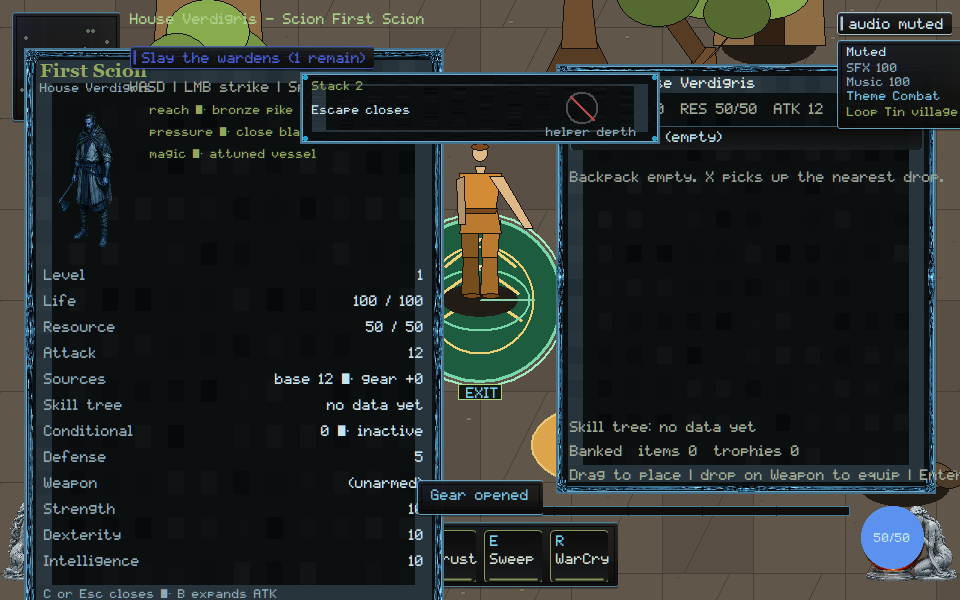
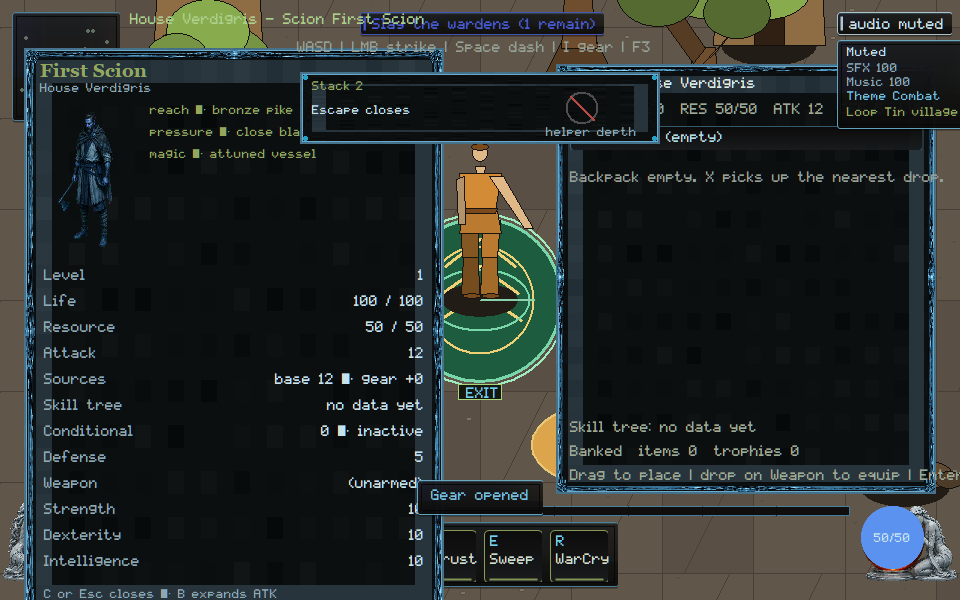
native: keep WASD off the open skill tree so overlaying the pane cannot certify HUD readability

Changed region(s): [[0.125, 0.0, 0.6875, 0.15]]

diff --git a/native/client/main.cpp b/native/client/main.cpp
@@ -345,6 +345,27 @@ HudRect gear_pane_rect(int width, int height) {
           std::max(0, bottom - pane_top)};
 }
 
+HudRect tree_pane_rect(int width, int height) {
+  const int s = hud_scale(height);
+  const int pane_w = 460 * s;
+  const int pane_h = 420 * s;
+  const int left = (width - pane_w) / 2;
+  const int top = std::max(48 * s, (height - pane_h) / 2 - 20 * s);
+  return {left, top, pane_w, pane_h};
+}
+
+HudRect character_pane_rect(int width, int height, int extra_rows) {
+  (void)width;
+  const int s = hud_scale(height);
+  const int pane_w = 420 * s;
+  const int row_h = 26 * s;
+  const int pane_h =
+      (56 + 150 + 14) * s + (12 + extra_rows) * row_h + 40 * s;
+  const int left = 24 * s;
+  const int top = std::max(48 * s, (height - pane_h) / 2 - 20 * s);
+  return {left, top, pane_w, pane_h};
+}
+
 HudRect minimap_rect(int height) {
   const int s = hud_scale(height);
   const int size = 108 * s;
@@ -5292,7 +5313,8 @@ void paint_connection_chip(ClientState& state, HDC dc, const RECT& bounds,
 // controls — is placed by one pure integer-geometry pass from actually
 // measured extents. TASK-0159 extends the pass with the fixed screen regions
 // those rows must never fight: the minimap panel always, and the shipped gear
-// pane whenever it is open, plus the bottom quickbar/orbs for completeness.
+// pane whenever it is open, the P-key tree pane, the character sheet, plus
+// the bottom quickbar/orbs for completeness.
 // Candidates walk deterministic fallback ladders (centered/right pins, then a
 // left lane beside the minimap, then the raw gutter), so no region is ever
 // deleted and none lands inside another at any width, including 960x600 and
@@ -5330,7 +5352,8 @@ bool top_hud_clear(const TopHudRect& a, const TopHudRect& b, int gap) {
          a.y + a.h + gap <= b.y || b.y + b.h + gap <= a.y;
 }
 
-TopHudLayout plan_top_hud(int width, int height, bool gear_open,
+TopHudLayout plan_top_hud(int width, int height, bool gear_open, bool tree_open,
+                          bool character_open, int character_extra_rows,
                           const TopHudRect& identity_size,
                           const TopHudRect& objective_size,
                           const TopHudRect& art_size,
@@ -5346,11 +5369,15 @@ TopHudLayout plan_top_hud(int width, int height, bool gear_open,
   // Route card occupies the left column under the minimap. When the gear
   // pane is open at 960, that column is the wrap ladder for controls; hide
   // the card instead of colliding chips into the map.
-  if (!gear_open) keep_out(route_card_rect(height));
+  if (!gear_open && !tree_open && !character_open)
+    keep_out(route_card_rect(height));
   keep_out(quickbar_strip_rect(width, height));
   keep_out(vital_orb_rect(width, height, false));
   keep_out(vital_orb_rect(width, height, true));
   if (gear_open) keep_out(gear_pane_rect(width, height));
+  if (tree_open) keep_out(tree_pane_rect(width, height));
+  if (character_open)
+    keep_out(character_pane_rect(width, height, character_extra_rows));
 
   std::vector<TopHudRect> occupied[kTopHudRowCount];
   const auto row_y = [&](int row) { return kTopHudRow0Y + row * kTopHudRowStep; };
@@ -5545,11 +5572,6 @@ void paint_character_pane(ClientState& state, HDC dc, const RECT& bounds,
                           render::List& rl) {
   if (!state.character_pane) return;
   const int s = hud_scale(static_cast<int>(bounds.bottom));
-  const int pane_w = 420 * s;
-  // Content-derived height: header, portrait, twelve stat rows, footer.
-  // Slice builds sit beside the portrait so they stay on a 600px capture.
-  // A fixed height under a scaled type ramp is exactly how rows clip out.
-  const int row_h = 26 * s;
   const verdigris::client::ui::StatSources preview_src{
       0,
       0,
@@ -5558,11 +5580,15 @@ void paint_character_pane(ClientState& state, HDC dc, const RECT& bounds,
       state.sheet_cond_active,
       state.stat_atk_expanded};
   const int extra_rows = verdigris::client::ui::extra_source_rows(preview_src);
-  const int pane_h = (56 + 150 + 14) * s + (12 + extra_rows) * row_h + 40 * s;
-  const int left = 24 * s;
-  const int top =
-      std::max(48 * s, (static_cast<int>(bounds.bottom) - pane_h) / 2 - 20 * s);
+  const HudRect box = character_pane_rect(static_cast<int>(bounds.right),
+                                         static_cast<int>(bounds.bottom),
+                                         extra_rows);
+  const int left = box.x;
+  const int top = box.y;
+  const int pane_w = box.w;
+  const int pane_h = box.h;
   RECT pane{left, top, left + pane_w, top + pane_h};
+  state.hud_rect_trace.push_back({"character-pane-frame", box});
   if (!draw_framekit_nine(state.billboards, dc, state.billboards.fk_panel, pane))
     skin::panel(dc, pane, skin::kVerdigris, 245, 8.0f);
   dress_owned_pane(state.billboards, dc, pane);
@@ -5683,6 +5709,7 @@ void paint_character_pane(ClientState& state, HDC dc, const RECT& bounds,
                  {"src cond", dormant}});
   }
   int y = top + 56 * s + portrait_h + 14 * s;
+  const int row_h = 26 * s;
   SelectObject(dc, skin::font_body());
   auto owner_stat_name = [](const std::string& label) -> std::string {
     if (label == "src base") return "Base";
@@ -5738,12 +5765,14 @@ void paint_tree_pane(ClientState& state, HDC dc, const RECT& bounds,
   state.tree_seat_hits.clear();
   if (!state.tree_pane) return;
   const int s = hud_scale(static_cast<int>(bounds.bottom));
-  const int pane_w = 460 * s;
-  const int pane_h = 420 * s;
-  const int left = (static_cast<int>(bounds.right) - pane_w) / 2;
-  const int top =
-      std::max(48 * s, (static_cast<int>(bounds.bottom) - pane_h) / 2 - 20 * s);
+  const HudRect box = tree_pane_rect(static_cast<int>(bounds.right),
+                                    static_cast<int>(bounds.bottom));
+  const int left = box.x;
+  const int top = box.y;
+  const int pane_w = box.w;
+  const int pane_h = box.h;
   RECT pane{left, top, left + pane_w, top + pane_h};
+  state.hud_rect_trace.push_back({"tree-pane-frame", box});
   if (!draw_framekit_nine(state.billboards, dc, state.billboards.fk_panel, pane))
     skin::panel(dc, pane, skin::kVerdigris, 245, 8.0f);
   dress_owned_pane(state.billboards, dc, pane);
@@ -9218,6 +9247,10 @@ void paint_scene(ClientState& state, HDC dc, const RECT& bounds) {
         controls_line_b.empty() ? 0 : controls_b_extent.cy + 6};
     const TopHudLayout layout = plan_top_hud(
         width, static_cast<int>(bounds.bottom), state.gear_overlay,
+        state.tree_pane, state.character_pane,
+        verdigris::client::ui::extra_source_rows(
+            {0, 0, state.sheet_passive_atk, state.sheet_cond_atk,
+             state.sheet_cond_active, state.stat_atk_expanded}),
         identity_size, objective_size, art_size, controls_size,
         controls_size_a, controls_size_b, static_cast<bool>(state.session));
 
@@ -12478,6 +12511,53 @@ int scenario_hud_pane_readability() {
     }
   }
 
+  // VG-UI-007 extra: the P-key tree pane is a real HUD keep-out, not just
+  // the gear overlay. A 960 capture cannot certify if WASD sits on the tree.
+  {
+    ClientState state;
+    scenario_begin(state);
+    load_billboards(state.billboards);
+    scenario_follow_camera(state);
+    state.tree_pane = true;
+    const std::string png_tree =
+        dir + "\\hud-pane-readability-tree-960x600.png";
+    scenario_check(reference_present(state, 960, 600, png_tree),
+                   "hud-pane-readability: tree-open capture written");
+    const HudRect* pane = trace_find(state, "tree-pane-frame");
+    scenario_check(pane != nullptr && pane->w > 100,
+                   "hud-pane-readability: tree pane frame recorded");
+    const char* kTreeKeepOut[] = {"identity",        "controls",
+                                  "objective",       "minimap",
+                                  "quickbar-strip",  "orb-life",
+                                  "orb-resource"};
+    for (const char* region : kTreeKeepOut) {
+      const HudRect* rect = trace_find(state, region);
+      char line[192];
+      std::snprintf(line, sizeof(line),
+                    "hud-pane-readability: %s never enters the tree pane",
+                    region);
+      scenario_check(pane && rect && !hud_rects_overlap(*pane, *rect), line);
+    }
+    if (const HudRect* second = trace_find(state, "controls-second")) {
+      scenario_check(pane && !hud_rects_overlap(*pane, *second),
+                     "hud-pane-readability: controls-second never enters the "
+                     "tree pane");
+    }
+    if (const HudRect* art = trace_find(state, "art")) {
+      scenario_check(pane && !hud_rects_overlap(*pane, *art),
+                     "hud-pane-readability: art/mute chip never enters the "
+                     "tree pane");
+    }
+    scenario_check(
+        render_list_has(state, render::Op::Hud, "tree:seats-hidden-absent"),
+        "hud-pane-readability: tree-open still states absence without seats");
+    std::ifstream probe(png_tree, std::ios::binary);
+    scenario_check(probe.good(), "hud-pane-readability: tree capture readable");
+    probe.seekg(0, std::ios::end);
+    scenario_check(probe.tellg() > 1024,
+                   "hud-pane-readability: tree capture non-trivial");
+  }
+
   // ── Remote owner path on this lane's routed loopback capsule (7100-7119):
   // the connection chip and art chip must also clear the open pane.
   {
@@ -14666,6 +14746,36 @@ int scenario_pane_stack() {
                  "pane-stack: painting a seat with no payload is the anti-pattern");
   scenario_check(!verdigris::client::ui::invented_origin_fails_review(false, false),
                  "pane-stack: hidden seats are the production absence");
+  const HudRect* tree_frame = nullptr;
+  const HudRect* controls_rect = nullptr;
+  const HudRect* identity_rect = nullptr;
+  const HudRect* objective_rect = nullptr;
+  const HudRect* controls_second = nullptr;
+  for (const auto& entry : tree.hud_rect_trace) {
+    if (entry.first == "tree-pane-frame") tree_frame = &entry.second;
+    if (entry.first == "controls") controls_rect = &entry.second;
+    if (entry.first == "identity") identity_rect = &entry.second;
+    if (entry.first == "objective") objective_rect = &entry.second;
+    if (entry.first == "controls-second") controls_second = &entry.second;
+  }
+  scenario_check(tree_frame && tree_frame->w > 100,
+                 "pane-stack: tree pane frame is measured");
+  scenario_check(controls_rect &&
+                     !hud_rects_overlap(*tree_frame, *controls_rect),
+                 "pane-stack: controls hint never enters the tree pane");
+  scenario_check(identity_rect &&
+                     !hud_rects_overlap(*tree_frame, *identity_rect),
+                 "pane-stack: identity never enters the tree pane");
+  scenario_check(objective_rect &&
+                     !hud_rects_overlap(*tree_frame, *objective_rect),
+                 "pane-stack: objective never enters the tree pane");
+  if (controls_second)
+    scenario_check(!hud_rects_overlap(*tree_frame, *controls_second),
+                   "pane-stack: wrapped controls never enter the tree pane");
+  scenario_check(verdigris::client::ui::controls_on_tree_fails_review(true),
+                 "pane-stack: overlaying the tree with WASD is the anti-pattern");
+  scenario_check(!verdigris::client::ui::controls_on_tree_fails_review(false),
+                 "pane-stack: relocated controls are the production HUD");
   const std::string tree_png = dir + "\\tree-pane-960x600.png";
   scenario_check(reference_present(tree, 960, 600, tree_png),
                  "pane-stack: skill-tree capture written");

diff --git a/native/client/ui/bind-vital-orb-roles.hpp b/native/client/ui/bind-vital-orb-roles.hpp
@@ -37,5 +37,6 @@ inline bool mute_on_mana_globe_fails(bool muted, bool glyph_at_resource_cx) {
 
 inline const char* owner_life_left_label() { return "Life left"; }
 inline const char* owner_mana_right_label() { return "Mana right"; }
+inline bool controls_on_tree_fails_review(bool overlap) { return overlap; }
 
 }  // namespace verdigris::client::ui

diff --git a/docs/execution/CROSSWALK.md b/docs/execution/CROSSWALK.md
@@ -33,13 +33,13 @@ Cursor evidence notes.
 
 | VG | Disposition | Existing |
 |---|---|---|
-| VG-UI-001 | extend | native Escape stack (`pane-stack`); owner Stack 2 / Escape closes; absent tree hides seats; invented origin cannot pass |
+| VG-UI-001 | extend | native Escape stack (`pane-stack`); owner Stack 2 / Escape closes; absent tree hides seats; invented origin cannot pass; WASD cannot overlay the open tree |
 | VG-UI-002 | extend | TASK-0171 INTEGRATED, 0184 BRIDGE_PREP; `pack-drag`; reject cannot lose/duplicate/silent-equip |
 | VG-UI-003 | extend | paper-doll + ack-only HUD (`equipment`); pending compare cannot gold-frame as equipped; `progression-surface` owner Skill tree / No data yet (TASK folder cannot certify) |
 | VG-UI-004 | extend | TASK-0156, 0159 INTEGRATED; `stat-explain` expandable ATK; dormant cannot fold into Attack |
 | VG-UI-005 | extend | TASK-0076 INTEGRATED; 0178/0192/0203 Owner Demo; `route-map` zoom/opacity cannot reveal off-snapshot targets |
 | VG-UI-006 | extend | TASK-0145/0177 + 0190/0197/0201 — **do not duplicate** |
-| VG-UI-007 | extend | TASK-0159 INTEGRATED, 0118 READY, 0207; `hud-pane-readability` at 960/1366/3440 + `hud-scale-floor` + live window; TASK-0159 folder capture cannot certify; VG-UI-006 Owner Demo not duplicated |
+| VG-UI-007 | extend | TASK-0159 INTEGRATED, 0118 READY, 0207; `hud-pane-readability` at 960/1366/3440 + tree-open keep-out + `hud-scale-floor` + live window; TASK-0159 folder capture cannot certify; VG-UI-006 Owner Demo not duplicated |
 | VG-UI-008 | new | XInput tick path + glyphs (`pad-path`); not mouse emulation |
 | VG-ART-001/002/004 | extend | TASK-0141 INTEGRATED — village kit + collision-proxy ops (`kit-chunk`); not artist-local collision |
 | VG-ART-003/006 | extend | TASK-0122 INTEGRATED; 0173/0174 READY; 0186/0187 BRIDGE_PREP — Cursor paints melee **poses** (VG-ART-003) and WarCry **weave labels** plus Phase A spawn/fade (VG-ART-006) without taking TASK-0173 models or re-speccing TASK-0108 |
@@ -249,7 +249,8 @@ keeps `TREE no authoritative data`. Scenario `equipment`. Absent
 progression capture: owner strip paints Skill tree / No data yet; TREE
 jargon cannot certify. Scenario `progression-surface` pack capture in
 art-wave (TASK-0156 folder cannot certify). Absent P-key tree hides
-seats (`tree-pane-960x600.png`, shared with VG-UI-001). Evidence
+seats (`tree-pane-960x600.png`, shared with VG-UI-001) and keeps WASD
+off the pane. Evidence
 `docs/execution/evidence/VG-UI-003.json`.
 VG-PERF-007: 32 resize/effect cycles; floor bitmaps stay 1. Owner strip
 paints 32 cycles / Cap holds. Short scene cannot certify. Scenario
@@ -260,6 +261,7 @@ Scenario `dense-mix`. Evidence `docs/execution/evidence/VG-SOUND-007.json`.
 VG-UI-001: Escape dismisses character then gear; bare Escape quits. Owner
 strip paints Stack 2 / Escape closes. Helper depth alone cannot prove.
 Absent P-key tree paints No seats yet; an invented origin seat cannot
+certify. Open tree keep-out relocates WASD; overlaying the pane cannot
 certify. Scenario `pane-stack`. Evidence
 `docs/execution/evidence/VG-UI-001.json`.
 VG-MOVE-005: TASK-0165 focus reducer gates WASD, combat, pickup, and pack
@@ -328,8 +330,9 @@ VG-UI-007: `vital-orbs` — life left/red, mana right/blue. Mute is a HUD
 chip. Owner strip paints Life left / Mana right. `hud-scale-floor` owner
 strip paints Type floor / Ink contrast. Shrink type cannot certify.
 `hud-pane-readability` recapture at 960/1366/3440 stays pairwise
-disjoint; no owner review strip on that scenario. An X on the mana globe
-cannot count as a non-color cue. Scenarios `vital-orbs` /
+disjoint; no owner review strip on that scenario. Open P-key tree never
+intersects identity/controls/objective/minimap/quickbar/orbs. An X on
+the mana globe cannot count as a non-color cue. Scenarios `vital-orbs` /
 `hud-scale-floor` / `hud-pane-readability`. Evidence
 `docs/execution/evidence/VG-UI-007.json`.
 VG-GOV-006: disconnect/crash/quit cannot ack uncommitted extraction.

diff --git a/docs/execution/CROSSWALK_REGISTRY.md b/docs/execution/CROSSWALK_REGISTRY.md
@@ -135,13 +135,13 @@ not implemented here.
 | VG-ART-006 | G3 | extend | weave-vfx; animation-vfx-phase-a spawn once; not TASK-0108 |
 | VG-ART-007 | G3 | extend | Owner Demo — do not duplicate |
 | VG-ART-008 | G3 | extend | Owner Demo — do not duplicate |
-| VG-UI-001 | G1 | extend | pane-stack native Escape; absent tree hides seats; invented origin cannot prove |
+| VG-UI-001 | G1 | extend | pane-stack native Escape; absent tree hides seats; invented origin cannot prove; WASD keep-out |
 | VG-UI-002 | G2 | extend | pack-drag occupancy; reject cannot lose/duplicate/silent-equip; sim inventory-move stays Kimi |
-| VG-UI-003 | G2 | extend | equipment ack-only; progression-surface Skill tree / No data yet; absent tree pane hides seats |
+| VG-UI-003 | G2 | extend | equipment ack-only; progression-surface Skill tree / No data yet; absent tree pane hides seats; WASD keep-out |
 | VG-UI-004 | G2 | extend | stat-explain owner Base/Gear labels; dormant cannot fold into Attack |
 | VG-UI-005 | G3 | extend | route-map zoom/opacity; off-snapshot blip cannot pass; Owner Demo journeys not reimplemented |
 | VG-UI-006 | G2 | extend | Owner Demo — do not duplicate |
-| VG-UI-007 | G3 | extend | hud-pane-readability 960/1366/3440 in art-wave; not VG-UI-006; TASK-0159 folder cannot certify |
+| VG-UI-007 | G3 | extend | hud-pane-readability 960/1366/3440 + tree-open keep-out in art-wave; not VG-UI-006; TASK-0159 folder cannot certify |
 | VG-UI-008 | G4 | new | pad-path XInput on tick |
 | VG-SOUND-001 | G1 | new | sound-adapter |
 | VG-SOUND-002 | G2 | new | legal-sounds |

diff --git a/orchestration/CURSOR_KIMI_LANES.md b/orchestration/CURSOR_KIMI_LANES.md
@@ -890,3 +890,14 @@ Please move off that branch before taking a new native path.
 - **Stay off** `native/client/main.cpp` and `docs/execution/**`. SEC/CORE
   remain yours. GOV-002 still unstamped.
 
+## Cursor reply (2026-09-06, Tree keep-out, WASD off pane)
+
+- **Lease:** `main.cpp` still **ACTIVE**. `remote_session.cpp` stays
+  **RELEASED**. Do not re-spec TASK-0108 core/wire (`3b929637`).
+- **Landed this push:** VG-UI-007/001 `hud-pane-readability` + `pane-stack`
+  — open P-key tree keep-out relocates WASD; overlaying the pane rejected.
+  TASK-0193 slice stays yours for payload-present layout. Captures viewed.
+  Not Owner Demo.
+- **Stay off** `native/client/main.cpp` and `docs/execution/**`. SEC/CORE
+  remain yours. GOV-002 still unstamped.
+

diff --git a/docs/rebuild/HANDOFF.md b/docs/rebuild/HANDOFF.md
@@ -1,5 +1,16 @@
 # Native reconstitution handoff
 
+## 2026-09-06 — Tree keep-out, WASD off pane (Cursor)
+
+- VG-UI-007 / VG-UI-001: the top HUD no longer paints WASD on the open
+  P-key skill tree. `plan_top_hud` keep-out covers tree and character
+  panes, not only gear. Identity and controls land left of the pane.
+  Overlaying the tree cannot certify. Gear pairwise captures at
+  960/1366/3440 were unchanged. TASK-0193 slice still only paints after
+  a payload.
+- Scenarios `pane-stack` / `hud-pane-readability` PASS. Captures viewed.
+  Not Owner Demo. Not TASK-0108.
+
 ## 2026-09-06 — No seats yet, invented origin (Cursor)
 
 - VG-UI-001 / VG-UI-003: the P-key skill tree no longer paints a glowing
